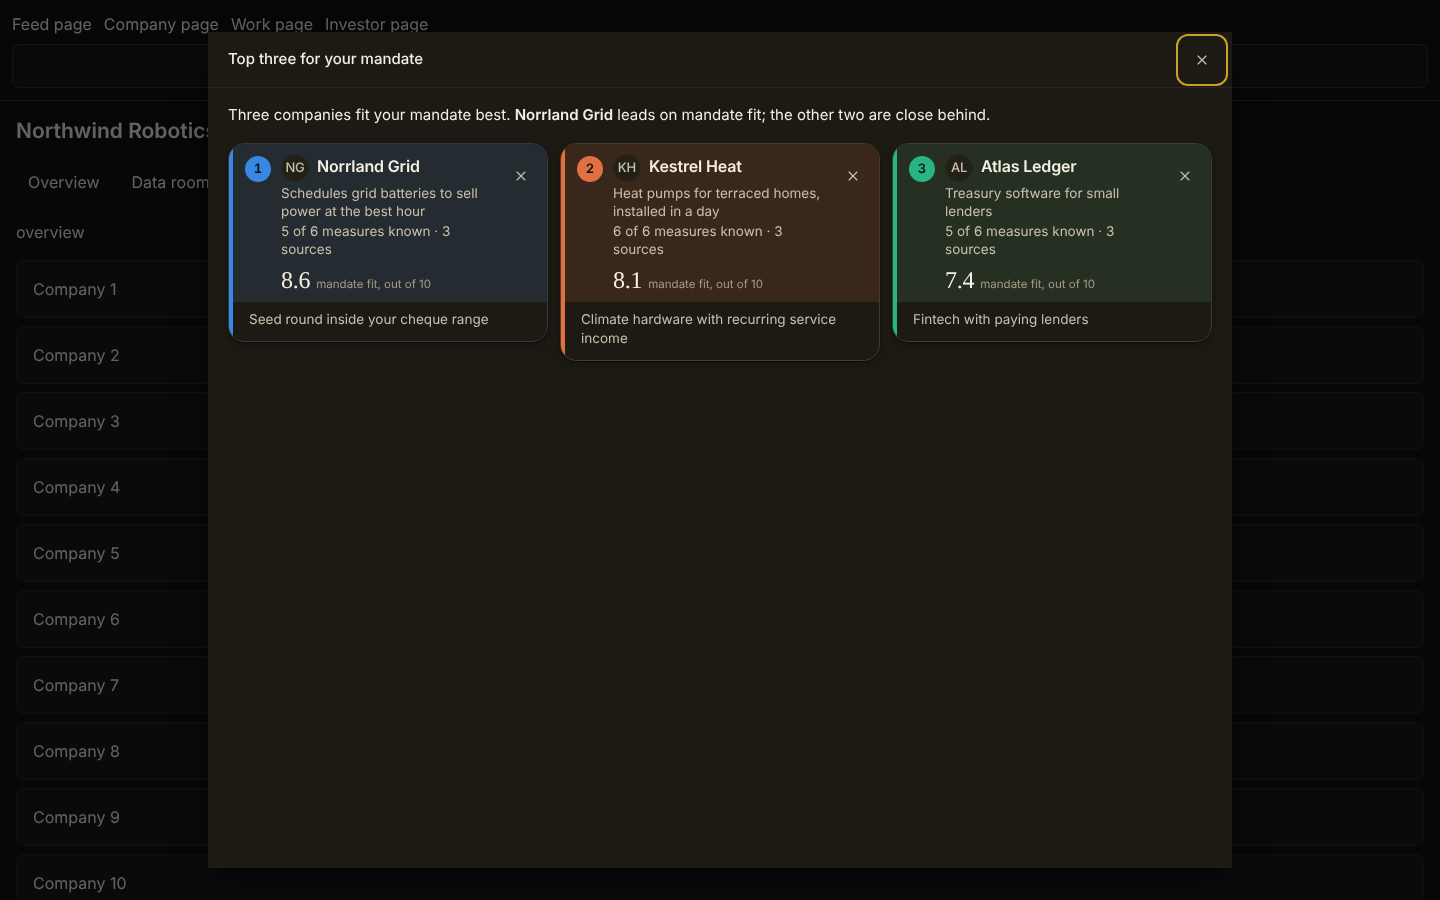
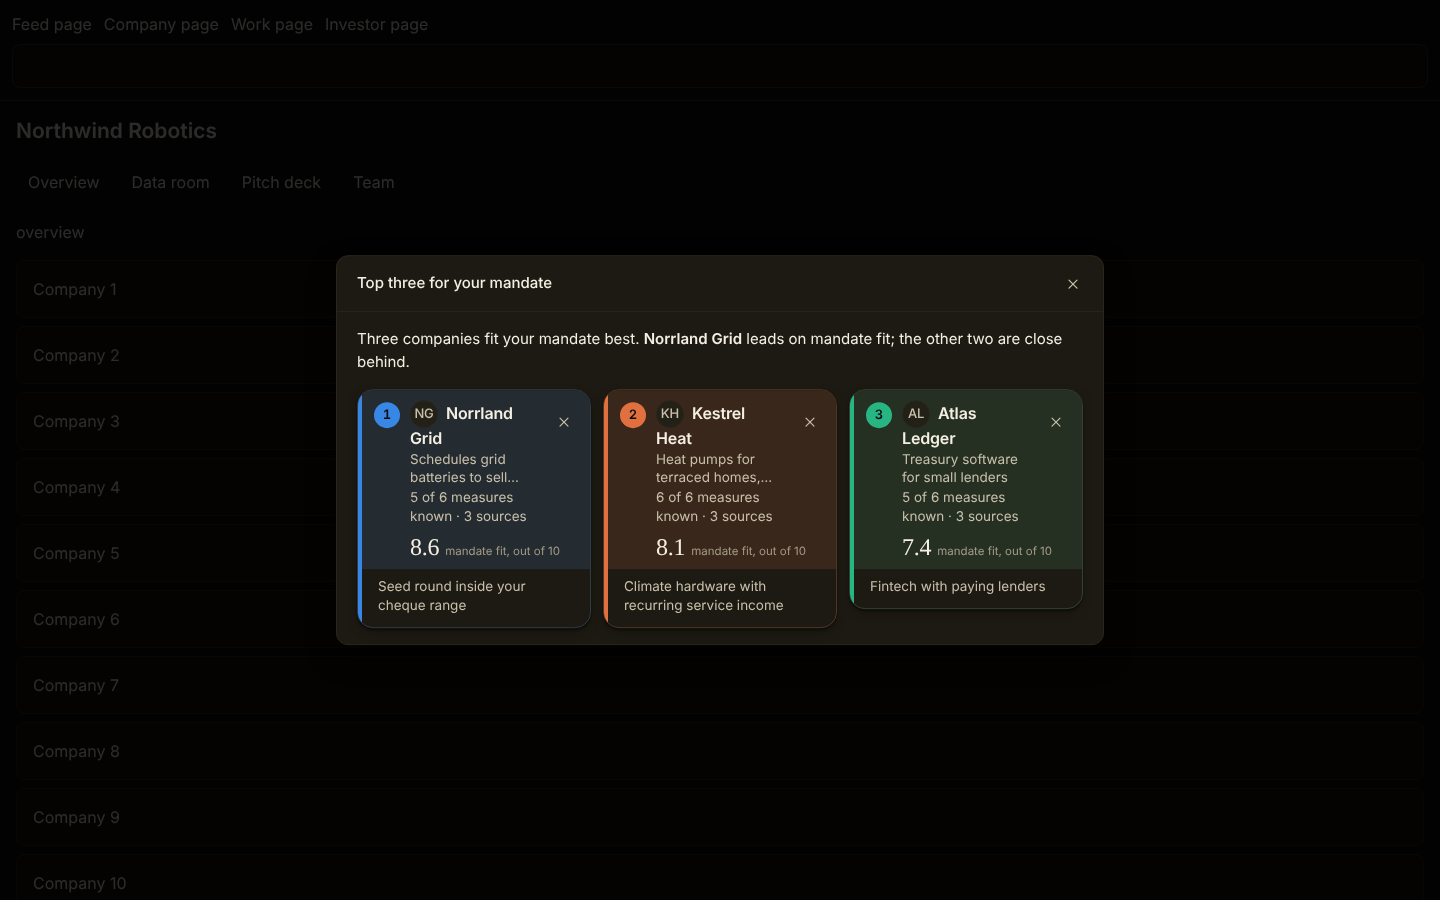
Context navigation round 2: modal fits its content, no ring unless keyboard, firmer scrim
- DialogViewerContent (ui): optional fit="content" (desktop height follows
  the content up to the viewport), scrim="strong" (new --cq-scrim token,
  both themes, no blur), focus="popup" (focus on the dialog unless opened
  by the keyboard). Defaults unchanged for every other dialog.
- Q's show modal uses all three; the e2e asserts them; screenshots redone.
- Route-capability parity: the choose route and the harness investor page
  classified; matrix regenerated.

Claude-Session: https://claude.ai/code/session_015LBWXZvgdqFsZ3GXd2qCir

diff --git a/packages/ui/src/components/dialog.tsx b/packages/ui/src/components/dialog.tsx
@@ -140,11 +140,29 @@ export function DialogViewerContent({
   children,
   className,
   onSwipeDismiss,
+  fit = "viewport",
+  scrim = "overlay",
+  focus = "first",
 }: {
   readonly title: string;
   readonly children: ReactNode;
   readonly className?: string | undefined;
   readonly onSwipeDismiss?: (() => void) | undefined;
+  /**
+   * "content": on a large screen, as tall as what it holds, up to the
+   * viewport, scrolling inside (a few cards are not a full-height panel).
+   * A phone keeps the whole-screen sheet either way.
+   */
+  readonly fit?: "viewport" | "content" | undefined;
+  /** "strong": the firmer `--cq-scrim`, for a modal over any page. */
+  readonly scrim?: "overlay" | "strong" | undefined;
+  /**
+   * "popup": opened by anything but the keyboard (a voice, a pointer, the
+   * app itself), focus lands on the dialog, not on its first control, so
+   * no focus ring appears on Close until the keyboard is used. Opened by
+   * the keyboard, the first control takes focus as before.
+   */
+  readonly focus?: "first" | "popup" | undefined;
 }) {
   const popupRef = useRef<HTMLDivElement>(null);
   const drag = useRef<{
@@ -208,16 +226,30 @@ export function DialogViewerContent({
   return (
     <OverlayLayerContext.Provider value="modal">
       <BaseDialog.Portal>
-        <BaseDialog.Backdrop className="fixed inset-0 z-(--cq-z-modal) bg-(--cq-overlay) transition-opacity duration-(--cq-motion-base) data-[ending-style]:opacity-0 data-[starting-style]:opacity-0" />
+        <BaseDialog.Backdrop
+          className={cx(
+            "fixed inset-0 z-(--cq-z-modal) transition-opacity duration-(--cq-motion-base) data-[ending-style]:opacity-0 data-[starting-style]:opacity-0",
+            scrim === "strong" ? "bg-(--cq-scrim)" : "bg-(--cq-overlay)",
+          )}
+        />
         <BaseDialog.Popup
           ref={popupRef}
           {...swipe}
+          {...(focus === "popup"
+            ? {
+                initialFocus: (type: string) =>
+                  type === "keyboard" ? true : popupRef.current,
+              }
+            : {})}
           className={cx(
             // Phone: the whole screen, rising from the bottom edge it can be
             // pulled back down to.
             "fixed inset-0 z-(--cq-z-modal) flex flex-col overflow-hidden bg-(--cq-surface-raised) outline-none transition-[opacity,transform,translate,scale] duration-(--cq-motion-emphasis) ease-(--cq-ease) data-[ending-style]:translate-y-full data-[starting-style]:translate-y-full",
             // Larger screens: a centred reading modal.
-            "sm:inset-auto sm:top-1/2 sm:left-1/2 sm:h-[calc(100dvh-64px)] sm:w-[calc(100vw-64px)] sm:max-w-5xl sm:-translate-x-1/2 sm:-translate-y-1/2 sm:shadow-(--cq-shadow-overlay) sm:duration-(--cq-motion-base) sm:data-[ending-style]:-translate-y-1/2 sm:data-[ending-style]:scale-[0.98] sm:data-[ending-style]:opacity-0 sm:data-[starting-style]:-translate-y-1/2 sm:data-[starting-style]:scale-[0.98] sm:data-[starting-style]:opacity-0",
+            fit === "content"
+              ? "sm:h-auto sm:max-h-[calc(100dvh-64px)] sm:max-w-3xl sm:rounded-(--cq-radius-lg) sm:border sm:border-(--cq-border-subtle)"
+              : "sm:h-[calc(100dvh-64px)] sm:max-w-5xl",
+            "sm:inset-auto sm:top-1/2 sm:left-1/2 sm:w-[calc(100vw-64px)] sm:-translate-x-1/2 sm:-translate-y-1/2 sm:shadow-(--cq-shadow-overlay) sm:duration-(--cq-motion-base) sm:data-[ending-style]:-translate-y-1/2 sm:data-[ending-style]:scale-[0.98] sm:data-[ending-style]:opacity-0 sm:data-[starting-style]:-translate-y-1/2 sm:data-[starting-style]:scale-[0.98] sm:data-[starting-style]:opacity-0",
             className,
           )}
         >

diff --git a/apps/web/e2e/instant-nav.spec.ts b/apps/web/e2e/instant-nav.spec.ts
@@ -747,6 +747,27 @@ for (const [name, path] of [
           ),
         )
         .toBe(true);
+      // Opened by the app, not the keyboard: no focus ring on Close.
+      expect(
+        await close.evaluate((element) => element.matches(":focus-visible")),
+      ).toBe(false);
+      // The page behind is held back by the firmer scrim, in both themes.
+      const scrim = await page.evaluate(() => {
+        const backdrop = [...document.querySelectorAll("div")].find((one) =>
+          one.className.includes("bg-(--cq-scrim)"),
+        );
+        return backdrop === undefined
+          ? null
+          : getComputedStyle(backdrop).backgroundColor;
+      });
+      expect(scrim).not.toBeNull();
+      if (info.project.name === "desktop") {
+        // As tall as its three cards, not a full-height panel.
+        const height =
+          (await page.getByRole("dialog").boundingBox())?.height ?? 0;
+        expect(height).toBeGreaterThan(200);
+        expect(height).toBeLessThan(900 - 64 - 100);
+      }
       mkdirSync(EVIDENCE, { recursive: true });
       await page.screenshot({
         path: join(
@@ -754,6 +775,14 @@ for (const [name, path] of [
           `modal-${name}-${scheme}-${info.project.name}.png`,
         ),
       });
+      // The keyboard brings the ring: Tab reaches Close and shows it.
+      await page.keyboard.press("Tab");
+      const ring = await page.evaluate(
+        () =>
+          document.activeElement?.matches("[data-q-close]:focus-visible") ===
+            true || document.activeElement?.closest("[role=dialog]") !== null,
+      );
+      expect(ring).toBe(true);
       // Escape closes it; then the button, then a click outside.
       await page.keyboard.press("Escape");
       await expect(modal).toHaveCount(0);

diff --git a/apps/q-api/test/route-capability-parity.test.ts b/apps/q-api/test/route-capability-parity.test.ts
@@ -880,6 +880,8 @@ const ROUTE_COVERAGE: Readonly<Record<string, Coverage>> = {
   "q-api/http/ui-act-receipts.ts POST Q_UI_ACT_RECEIPTS_PATH": Q_TRANSPORT,
   // RECOVERY-2026-10 (C): where a finished sentence goes, read by code.
   "q-api/http/fast-navigation.ts POST Q_FAST_NAVIGATION_PATH": Q_TRANSPORT,
+  // Lane 7: the tie-break for a pointing request; reads only.
+  "q-api/http/fast-navigation.ts POST Q_NAVIGATION_CHOOSE_PATH": Q_TRANSPORT,
   "q-api/http/q-runs.ts POST Q_RUNS_PATH": Q_TRANSPORT,
   "q-api/http/q-runs.ts GET runPath": Q_TRANSPORT,
   "q-api/http/q-runs.ts POST `${runPath}${Q_RUN_MESSAGES_SUFFIX}`": Q_TRANSPORT,
@@ -955,6 +957,9 @@ const PAGE_COVERAGE: Readonly<Record<string, Coverage>> = {
   "/dev/q-nav": exempt("development-only page"),
   "/dev/instant-nav": exempt("development-only page (instant-nav harness)"),
   "/dev/instant-nav/company/[id]": exempt(
+    "development-only page (instant-nav harness)",
+  ),
+  "/dev/instant-nav/investors/[id]": exempt(
     "development-only page (instant-nav harness)",
   ),
   "/dev/instant-nav/work": exempt(
@@ -1287,6 +1292,9 @@ const Q_TRANSPORT_NOT_ACTIONS: ReadonlySet<string> = new Set([
   "q-api/http/ui-act-receipts.ts POST Q_UI_ACT_RECEIPTS_PATH",
   // RECOVERY-2026-10 (C): a read by code of where the words go; changes nothing.
   "q-api/http/fast-navigation.ts POST Q_FAST_NAVIGATION_PATH",
+  // Lane 7: which one a pointing request means, among what they may open;
+  // a read that changes nothing.
+  "q-api/http/fast-navigation.ts POST Q_NAVIGATION_CHOOSE_PATH",
 ]);
 
 /**

diff --git a/packages/ui/src/tokens/tokens.css b/packages/ui/src/tokens/tokens.css
@@ -75,6 +75,11 @@
 
   --cq-focus-ring: var(--cq-accent);
   --cq-overlay: oklch(0.19 0.012 258 / 0.42);
+  /*
+   * A firmer scrim for a modal Q opens over whatever page they are on
+   * (Lane 7): the page must read as behind it at a glance, in both themes.
+   */
+  --cq-scrim: oklch(0.19 0.012 258 / 0.55);
 
   /*
    * Shadows communicate elevation only (doc 18 §27): xs for a resting
@@ -314,6 +319,7 @@
     --cq-gold-gloss: oklch(1 0 0 / 0.38);
     --cq-gold-depth: oklch(0 0 0 / 0.55);
     --cq-overlay: oklch(0.1 0.01 258 / 0.6);
+    --cq-scrim: oklch(0.02 0.005 258 / 0.82);
     --cq-shadow-xs: 0 1px 2px oklch(0.05 0.01 258 / 0.4);
     --cq-shadow-sm:
       0 1px 2px oklch(0.05 0.01 258 / 0.4),
@@ -397,6 +403,7 @@
   --cq-gold-gloss: oklch(1 0 0 / 0.38);
   --cq-gold-depth: oklch(0 0 0 / 0.55);
   --cq-overlay: oklch(0.1 0.01 258 / 0.6);
+  --cq-scrim: oklch(0.02 0.005 258 / 0.82);
   --cq-shadow-xs: 0 1px 2px oklch(0.05 0.01 258 / 0.4);
   --cq-shadow-sm:
     0 1px 2px oklch(0.05 0.01 258 / 0.4),

diff --git a/apps/web/src/features/q/control/q-show-modal.tsx b/apps/web/src/features/q/control/q-show-modal.tsx
@@ -130,7 +130,16 @@ export function QShowModal({ turns }: { readonly turns: readonly QTurn[] }) {
       }}
     >
       {shown === null ? null : (
-        <DialogViewerContent title={title} onSwipeDismiss={closeShown}>
+        <DialogViewerContent
+          title={title}
+          onSwipeDismiss={closeShown}
+          // A few cards are not a full-height panel; the page behind reads
+          // as behind it in both themes; opened by a voice or the app, no
+          // focus ring lands on Close until the keyboard is used.
+          fit="content"
+          scrim="strong"
+          focus="popup"
+        >
           <div
             className="flex min-h-0 flex-1 flex-col"
             data-q-show-modal={shown.key}

diff --git a/docs/recovery/capability-parity.md b/docs/recovery/capability-parity.md
@@ -145,7 +145,7 @@ Every control is operated by `operate_screen` (tool.operate_screen): typed text 
 | `tab.work-team`                | TAB           | target=`tab.work-team`; act ∈ {SELECT_TAB, ACTIVATE, SCROLL_TO, FOCUS}                         | yes: after open_page / NAVIGATE the act waits for the new page | yes: one queue, each step after the last receipt | none (screen act) | aria-selected on the tab, and for a link tab the router settled on its route                                                      | TARGET_MISSING / NOT_APPLICABLE / FAILED receipt; shell notice; receipt fact next turn | apps/web/test/q-control.test.tsx | `apps/web/src/features/work/work-page.tsx`                                                                                                                      |
 | `tab.yours`                    | TAB           | target=`tab.yours`; act ∈ {SELECT_TAB, ACTIVATE, SCROLL_TO, FOCUS}                             | yes: after open_page / NAVIGATE the act waits for the new page | yes: one queue, each step after the last receipt | none (screen act) | aria-selected on the tab, and for a link tab the router settled on its route                                                      | TARGET_MISSING / NOT_APPLICABLE / FAILED receipt; shell notice; receipt fact next turn | apps/web/test/q-control.test.tsx | `apps/web/src/features/discover/discover-tabs.tsx`                                                                                                              |
 
-## 2. Pages (128)
+## 2. Pages (129)
 
 Reached by `NAVIGATE` (fixed route map, apps/web/src/features/voice/destinations.ts) or `open_page` (a record, by server-resolved id). Moves are confirmed when the router settles on the route; a move that never lands is FAILED. Each page's coverage or stated exemption is in the parity test's PAGE_COVERAGE.
 
@@ -200,6 +200,7 @@ Reached by `NAVIGATE` (fixed route map, apps/web/src/features/voice/destinations
 | `/dev/gateq-v2`                                              | `apps/web/app/dev/gateq-v2/page.tsx`                                                    | —                                                                                                          |
 | `/dev/instant-nav`                                           | `apps/web/app/dev/instant-nav/page.tsx`                                                 | —                                                                                                          |
 | `/dev/instant-nav/company/[id]`                              | `apps/web/app/dev/instant-nav/company/[id]/page.tsx`                                    | —                                                                                                          |
+| `/dev/instant-nav/investors/[id]`                            | `apps/web/app/dev/instant-nav/investors/[id]/page.tsx`                                  | —                                                                                                          |
 | `/dev/instant-nav/work`                                      | `apps/web/app/dev/instant-nav/work/page.tsx`                                            | —                                                                                                          |
 | `/dev/match`                                                 | `apps/web/app/dev/match/page.tsx`                                                       | —                                                                                                          |
 | `/dev/presence`                                              | `apps/web/app/dev/presence/page.tsx`                                                    | —                                                                                                          |

diff --git a/docs/ai-handoff/workstreams/INSTANT-NAV-2026-10-21.md b/docs/ai-handoff/workstreams/INSTANT-NAV-2026-10-21.md
@@ -191,6 +191,13 @@ The person says "open their deck", "open this one", "show me that", "their stuff
   - a tab, act or document done by the screen is reported as done at once (`fastActLine`);
   - before, a tab waited the full 6 s for a route receipt and the voice said it was "still loading" after the screen had already moved.
 
+## Modal fixes (coordinator, from the screenshots)
+
+- **Desktop modal sizes to its content.** It is as tall as what it holds, scrolls inside up to the viewport, and is 3xl wide (`DialogViewerContent fit="content"`). A phone keeps the whole-screen sheet.
+- **No focus ring on Close unless the keyboard is used.** When opened by a voice, a pointer or the app, focus lands on the dialog itself (`focus="popup"`). Opened by the keyboard, or after Tab, Close gets focus and shows its `:focus-visible` ring. The focus trap and focus return are unchanged.
+- **The page behind is clearly held back in dark mode.** A new `--cq-scrim` token (light: 0.55 alpha; dark: 0.82 alpha over near-black, no blur) is used only for this modal (`scrim="strong"`). Other dialogs keep `--cq-overlay`.
+- **The e2e asserts all three:** height below the viewport minus 164 px on desktop, no `:focus-visible` on Close at open, and the scrim present. Screenshots are regenerated.
+
 ## Not done here / needs others
 
 - **Duplex voice line, routed turns:** the turn still goes to Q's server run after the screen has acted. Scroll and back are code lanes there (0 model). "Close it", "press X" and documents may still call a model, and the answer acts once more on something already done (a no-op). A code lane in `packages/q-specialists/src/answer.ts` for `instantRequestOf` / `documentAskOf` would end that; that file is Lane 4's, and the change has been proposed to them.
